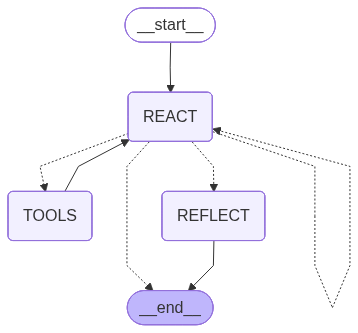
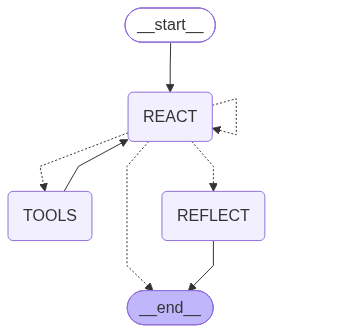
v2

diff --git a/InvestmentAgent/terminal_run.py b/InvestmentAgent/terminal_run.py
@@ -1,10 +1,10 @@
 """
-terminal_run.py
+run.py
 Main entry point for Investment Agent CLI
 """
 
 from colorama import Fore, Style, init
-import asyncio
+
 from utils.logger import LOGGER
 from utils.db_connect import initialize_database
 from utils.terminal_ui import (
@@ -18,14 +18,10 @@ from utils.terminal_ui import (
     print_user_message,
 )
 
-#from agents.investment_agent_AI import agent
-#from agents.investment_agent_base import InvestmentAgentState, gr, IST
-from agents.investment_agent import InvestmentAgentState, gr, IST
-from chat.chat_run import handle_user_message
-
+from agents.investment_agent_AI import agent
 init(autoreset=True)
 
-CURRENT_THREAD_ID = 'SriGanesh'
+
 # ────────────────────────────────────────────────
 # ENVIRONMENT SETUP
 # ────────────────────────────────────────────────
@@ -39,6 +35,7 @@ def setup_environment():
 # ────────────────────────────────────────────────
 # COMMAND HANDLER
 # ────────────────────────────────────────────────
+
 def handle_command(cmd: str, ui: TerminalChatUI) -> bool:
     """
     Handle system commands.
@@ -68,8 +65,11 @@ def handle_command(cmd: str, ui: TerminalChatUI) -> bool:
 # ────────────────────────────────────────────────
 # MAIN LOOP
 # ────────────────────────────────────────────────
+
 def main():
+
     setup_environment()
+
     print_divider(78, "═", Fore.CYAN)
     print(f"{Fore.CYAN}  Indian Stock Market AI Agent{Style.RESET_ALL}")
     print_divider(78, "═", Fore.CYAN)
@@ -113,18 +113,15 @@ def main():
 
             print_thinking()
 
-            #result = agent.run(query=text)
-            result = asyncio.run(handle_user_message(
-                thread_id=CURRENT_THREAD_ID,
-                user_query=text
-            ))
+            result = agent.run(query=text)
+
         except Exception as e:
 
             LOGGER.exception("Agent execution failed")
 
             print_system_msg(
                 f"Agent error: {str(e)}",
-                "x",
+                "✗",
                 Fore.RED,
             )
 
@@ -140,7 +137,7 @@ def main():
 
             print_system_msg(
                 "No response generated",
-                "!",
+                "⚠",
                 Fore.YELLOW,
             )
 

diff --git a/InvestmentAgent/investment_app.py b/InvestmentAgent/investment_app.py
@@ -90,7 +90,7 @@ if __name__ == "__main__":
     import uvicorn
 
     uvicorn.run(
-        "api.main:app",
+        "investment_app:app",
         host="127.0.0.1",
         port=8000,
         #log_level="critical",

diff --git a/InvestmentAgent/ReadMe.Md b/InvestmentAgent/ReadMe.Md
@@ -301,7 +301,7 @@ Confidence: 68/100
 ## 3⃣ Run application
 
 ```
-python run.py
+python terminal_run.py
 ```
 
 ---
@@ -347,21 +347,6 @@ pytest tests/
 
 ---
 
-# 🐳 Docker Support
-
-A Docker environment can be built using:
-
-```
-docker build -t investment-agent .
-```
-
-Run container:
-
-```
-docker run investment-agent
-```
-
----
 
 # 📈 Future Improvements
 
